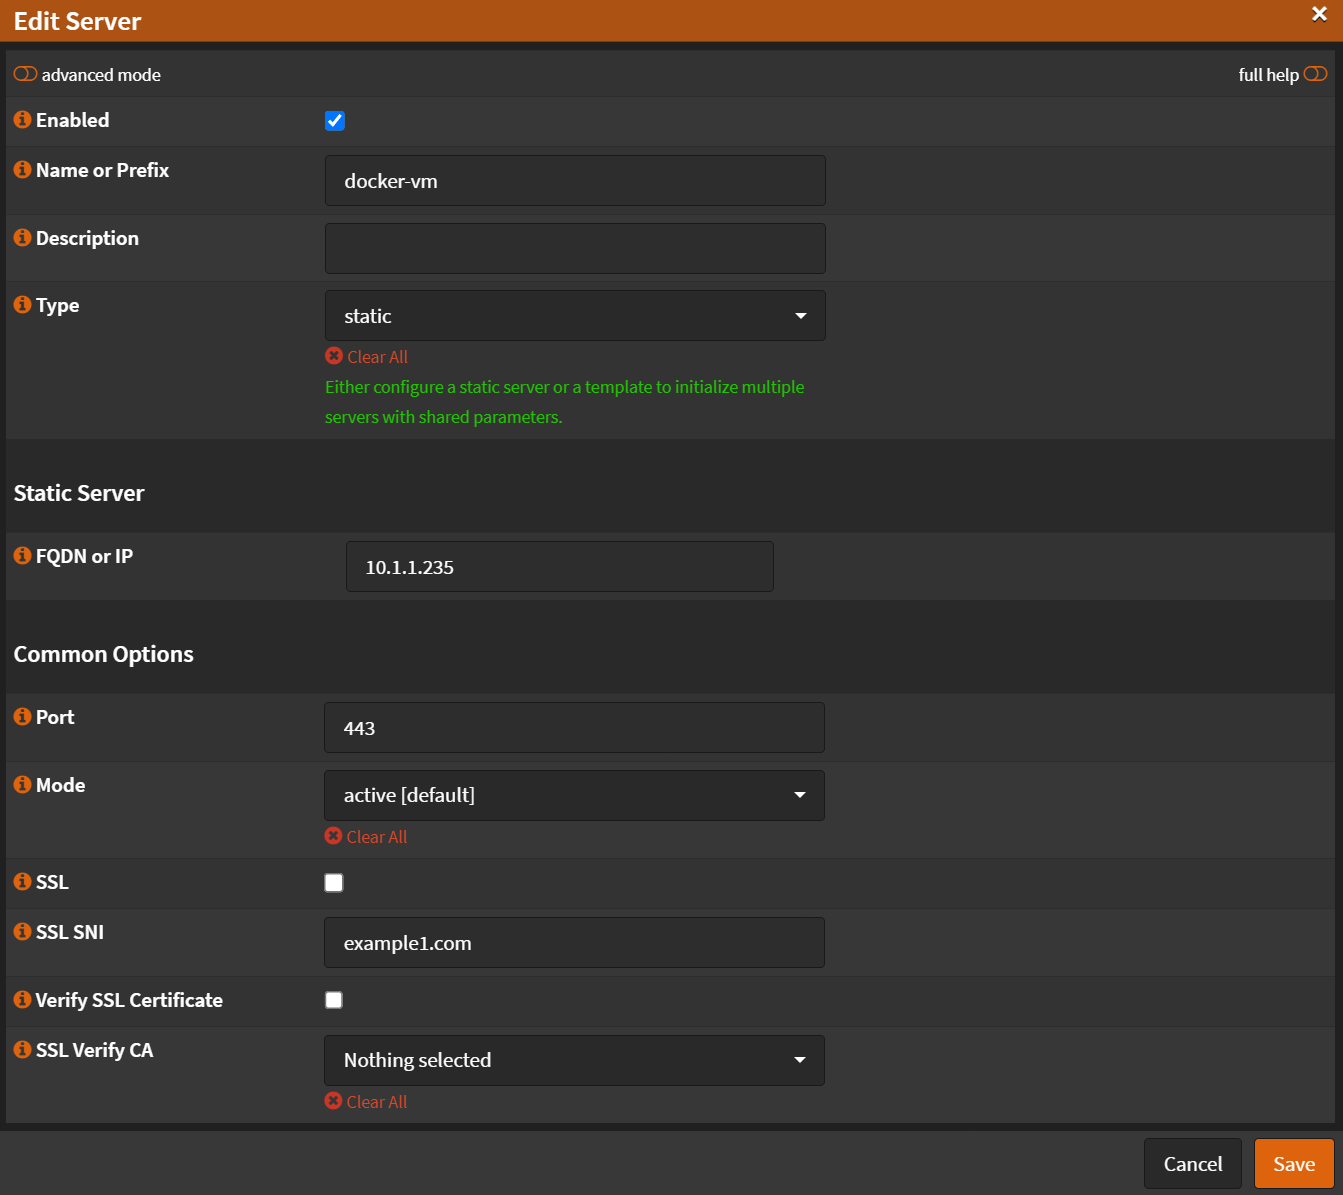
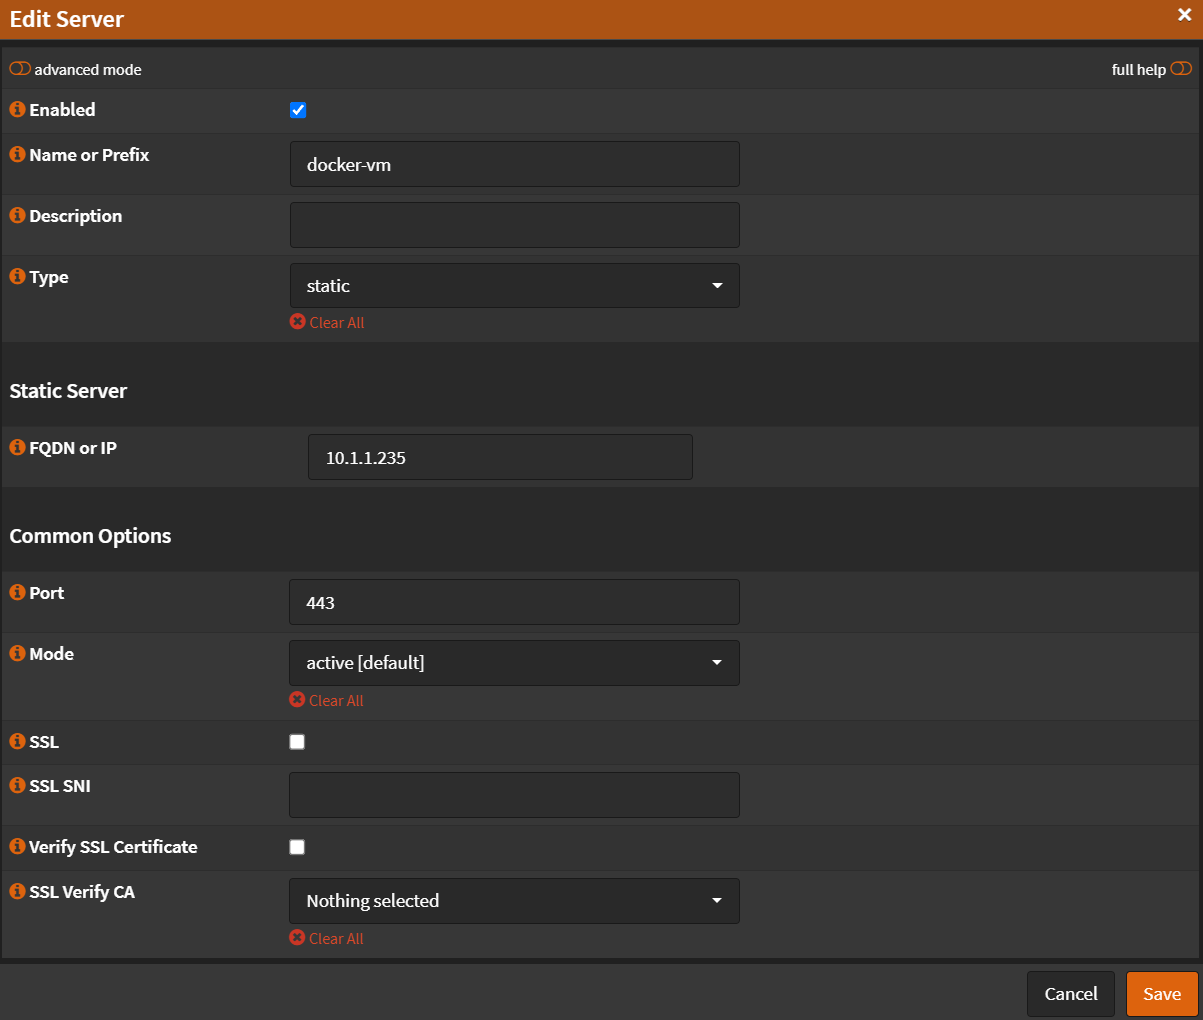
more work

diff --git a/docs/networking/2-opnsense/13-haproxy/3-sni.md b/docs/networking/2-opnsense/13-haproxy/3-sni.md
@@ -16,6 +16,8 @@ and only accepting HTTPS traffic.
 
 Navigate to `Services` -> `HAProxy` -> `Settings`
 
+### Server 1
+
 - Click `Real Servers`
 - Click <kbd>➕</kbd>
 - Name or Prefix: `docker-vm`
@@ -23,17 +25,32 @@ Navigate to `Services` -> `HAProxy` -> `Settings`
 - Port `443`
 - Uncheck `SSL`
 - Uncheck `Verify SSL Certificate`
-- SSL SNI: `example1.com`
 
 ![haproxy-server1](img/haproxy-server1.png)
 
 - Click <kbd>Save</kbd>
+- Click <kbd>Apply</kbd>
 
-## Virtual Servers
+### Server 2
+
+- Click <kbd>➕</kbd>
+- Name or Prefix: `other-docker-vm`
+- Type: `static`
+- Port `443`
+- Uncheck `SSL`
+- Uncheck `Verify SSL Certificate`
+
+![haproxy-server2](img/haproxy-server2.png)
+
+- Click <kbd>Save</kbd>
+- Click <kbd>Apply</kbd>
+
+## Virtual Services - Backend Pools
 
 Navigate to `Services` -> `HAProxy` -> `Settings`
 
-- Click `Virtual Servers`
+- Click <kbd>🔽</kbd> next to `Virtual Services`
+- Click `Backend Pools`
 - Click <kbd>➕</kbd>
 - Check `Enabled`
 - Name: `example1_pool`
@@ -42,11 +59,14 @@ Navigate to `Services` -> `HAProxy` -> `Settings`
 - Uncheck `Health Checking`
 - Retries: `3`
 
-![haproxy-virtualpool1](img/haproxy-virtualpool1.png)
+![haproxy-virtual-pool1](img/haproxy-virtual-pool1.png)
 
 - Click <kbd>Save</kbd>
+- Click <kbd>Apply</kbd>
 
-## Conditions
+## Rules & Checks
+
+### Conditions
 
 Navigate to `Services` -> `HAProxy` -> `Settings`
 
@@ -61,12 +81,41 @@ Navigate to `Services` -> `HAProxy` -> `Settings`
 ![haproxy-sni-condition1](img/haproxy-sni-condition1.png)
 
 - Click <kbd>Save</kbd>
+- Click <kbd>Apply</kbd>
 
-## Rules
+### Rules
 
 Navigate to `Services` -> `HAProxy` -> `Settings`
 
 - Click <kbd>🔽</kbd> next to `Rules & Checks`
 - Click `Rules`
 - Click <kbd>➕</kbd>
+- Name: `rule-example1_com`
 - Select conditions: `sni-example1_com`
+- Execute function: `Use specified Backend Pool`
+- Use backend pool: `example1_pool`
+
+![haproxy-rule1](img/haproxy-rule1.png)
+
+- Click <kbd>Save</kbd>
+- Click <kbd>Apply</kbd>
+
+## Virtual Services - Public Services
+
+Navigate to `Services` -> `HAProxy` -> `Settings`
+
+- Click <kbd>🔽</kbd> next to `Virtual Services`
+- Click `Public Services`
+- Click <kbd>➕</kbd>
+- Name: `public`
+- Listen Addresses: `127.0.0.1:443`
+- Type: `SSL/HTTPS (TCP Mode)`
+- Default Backend Pool: `none`
+- Uncheck `Enable SSL offloading`
+- Select Rules: `rule-example1_com`
+
+![haproxy-public1](img/haproxy-public1.png)
+![haproxy-public2](img/haproxy-public2.png)
+
+- Click <kbd>Save</kbd>
+- Click <kbd>Apply</kbd>

diff --git a/docs/networking/2-opnsense/13-haproxy/2-configuration.md b/docs/networking/2-opnsense/13-haproxy/2-configuration.md
@@ -50,7 +50,7 @@ Navigate to `Firewall` -> `Rules` -> `WAN`
   - To: `HTTPS`
 - Description: `HAProxy HTTPS`
 
-![haproxy-rule](img/haproxy-rule.png)
+![haproxy-fw-rule](img/haproxy-fw-rule.png)
 
 - Click <kbd>Save</kbd>
 - Click <kbd>Apply Changes</kbd>
